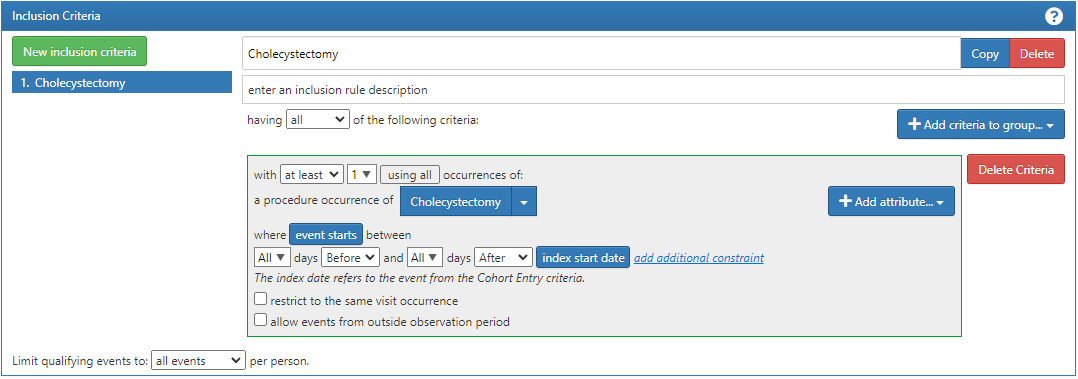
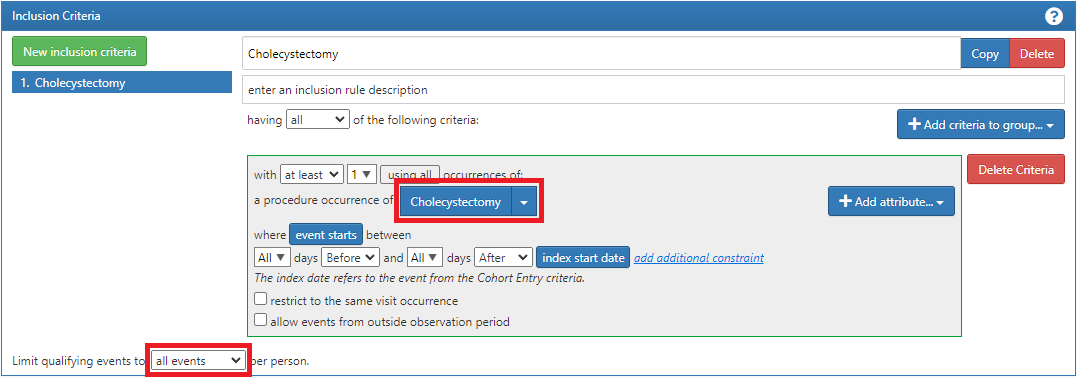
20230210_update

Changed region(s): [[0.3673, 0.4644, 0.5204, 0.6095], [0.1224, 0.8997, 0.2449, 1.0]]

diff --git a/Atlas_operation_Characterizations.md b/Atlas_operation_Characterizations.md
@@ -439,3 +439,120 @@ Atlas 画面の左タブから「Cohort Definitions」画面を開くと、Atlas
 
 ![](./Files/Atlas_4/image/image16.jpeg)
 
+<br>
+
+「Any Procedure」に対象のProcedureのコンセプトセットを設定します。  
+「Any Procedure」の▼をクリックすると、コンセプトセットの一覧が表示されるので、前章で作成したコンセプトセット「Cholecystectomy」をクリックして選択します。  
+対象イベントは「all events」を選択します。  
+
+![](./Files/Atlas_4/image/image17.png)
+
+<br>
+
+以上で包含基準「Cholecystectomy」の作成は完了です。  
+
+<br>
+
+最後に、「Cohort Exit」欄の設定について説明します。  
+
+![](./Files/Atlas_4/image/image18.png)
+
+<br>
+
+本手順では、コホートの終了条件は、「継続的観察の終了」として設定するため、「Event Persistence」は「end of continuous observation」を選択します。  
+
+![](./Files/Atlas_4/image/image19.png)
+
+<br>
+
+「Cohort Exit」の設定は完了です。  
+
+以上の操作が完了したら、画面右上の緑の保存ボタンをクリックして「Cholecystectomy Definition」を保存します。  
+
+![](./Files/Atlas_4/image/image124.png)
+
+<br>
+
+以上で「Cholecystectomy Definition」のコホートの作成は完了です。  
+
+<br>
+
+同様にして、以下の術式 Laparoscopic cholecystectomy のコホートについても作成します。  
+
+Cohort Definitions 名：Laparoscopic cholecystectomy Definition  
+- ＜Cohort Entry Events＞  
+「+Add Initial Event...」をクリックして「Add Procedure Occurrence」を選択  
+「Any Procedure」→「Import Concept Set」→「Laparoscopic cholecystectomy」を選択  
+手術前後の観察期間は設定しない  
+対象イベントは「all events」を選択  
+
+- ＜Inclusion Criteria＞  
+New inclusion criteria 名：Laparoscopic cholecystectomy  
+「+Add criteria to group...」から「Add Procedure Occurrence」を選択  
+「Any Procedure」→「Import Concept Set」→「Laparoscopic cholecystectomy」を選択  
+対象イベントは「all events」を選択  
+
+- ＜Cohort Exit Event＞  
+「Event Persistence」では「end of continuous observation」を選択  
+
+以上でCohort Definitionsの作成は完了です。  
+
+<br>
+
+---
+# **5　Feature Analyses（特徴分析）の作成**
+
+Feature Analyses とは、Characterizations による分析で調査したい項目として登録し、調査項目ごとの患者統計や発生率を結果としてレポートに出力します。  
+作成された Feature Analyses は、他の Characterizations 機能での分析における出力項目として設定することができます。  
+
+Atlasでは、標準で利用できる Feature Analyses が 100 件以上あります。（表1）  
+標準の Feature Analyses を選択することで、簡単に Characterizations の調査項目を設定できます。  
+標準以外でも、新規に Feature Analyses を作成できますので、観察研究のニーズに合わせて、特定の Characterizations 調査項目を作成することができます。  
+
+|Domain|ドメイン|件数|
+|:---|:---|:---|
+|CONDITION|病名|32|
+|DRUG|薬剤|23|
+|MEASUREMENT|検査|15|
+|Demographics|人口統計|11|
+|Observation|観察|7|
+|Procedure|手術|7|
+|Visit|通院歴|6|
+|Device|機材|4|
+
+*表１：標準化 Feature Analyses のドメイン別件数*  
+*※ Feature Analyses 項目は「７章　補足資料」で説明します*  
+
+<br>
+
+新規の Feature Analyses 定義では、1つまたは1つ以上の「Criteria Feature（特徴疾病）」を設定することができます。  
+
+本章では、新規の Feature Analyses 定義の作成方法について説明します。  
+2章で作成した＜病名＞、＜薬剤＞および＜検査項目＞の Concept Sets を用いて、Feature Analyses 定義を作成します。  
+ここでは、＜薬剤＞の Concept Sets を例に Feature Analyses 定義の作成手順を説明します。  
+
+Feature Analyses 定義を新規作成するので、「New Feature Analysis」をクリックします。  
+
+![](./Files/Atlas_4/image/image20.png)
+
+<br>
+
+Feature Analyses 作成画面が表示されます。  
+画面上部に Feature Analyses の名称を入力する欄があるので、「Gall Bladder Drug Feature Analysis」と入力します。  
+
+![](./Files/Atlas_4/image/image21.png)
+
+<br>
+
+次に、Feature Analyses の種別を選択します。  
+ここでは、薬剤の項目を設定するので、Description は「Drug」を選択します。  
+※Characterizations 画面に、Feature Analyses 定義をインポートする際に、「Drug」分類から選択できます。  
+
+![](./Files/Atlas_4/image/image22.png)
+
+<br>
+
+次に、薬剤の Concept Sets を「Criteria Feature」に設定します。  
+Design のグレーボタン「Criteria」をクリックします。  
+クリックすると設定画面が表示されます。  
+
